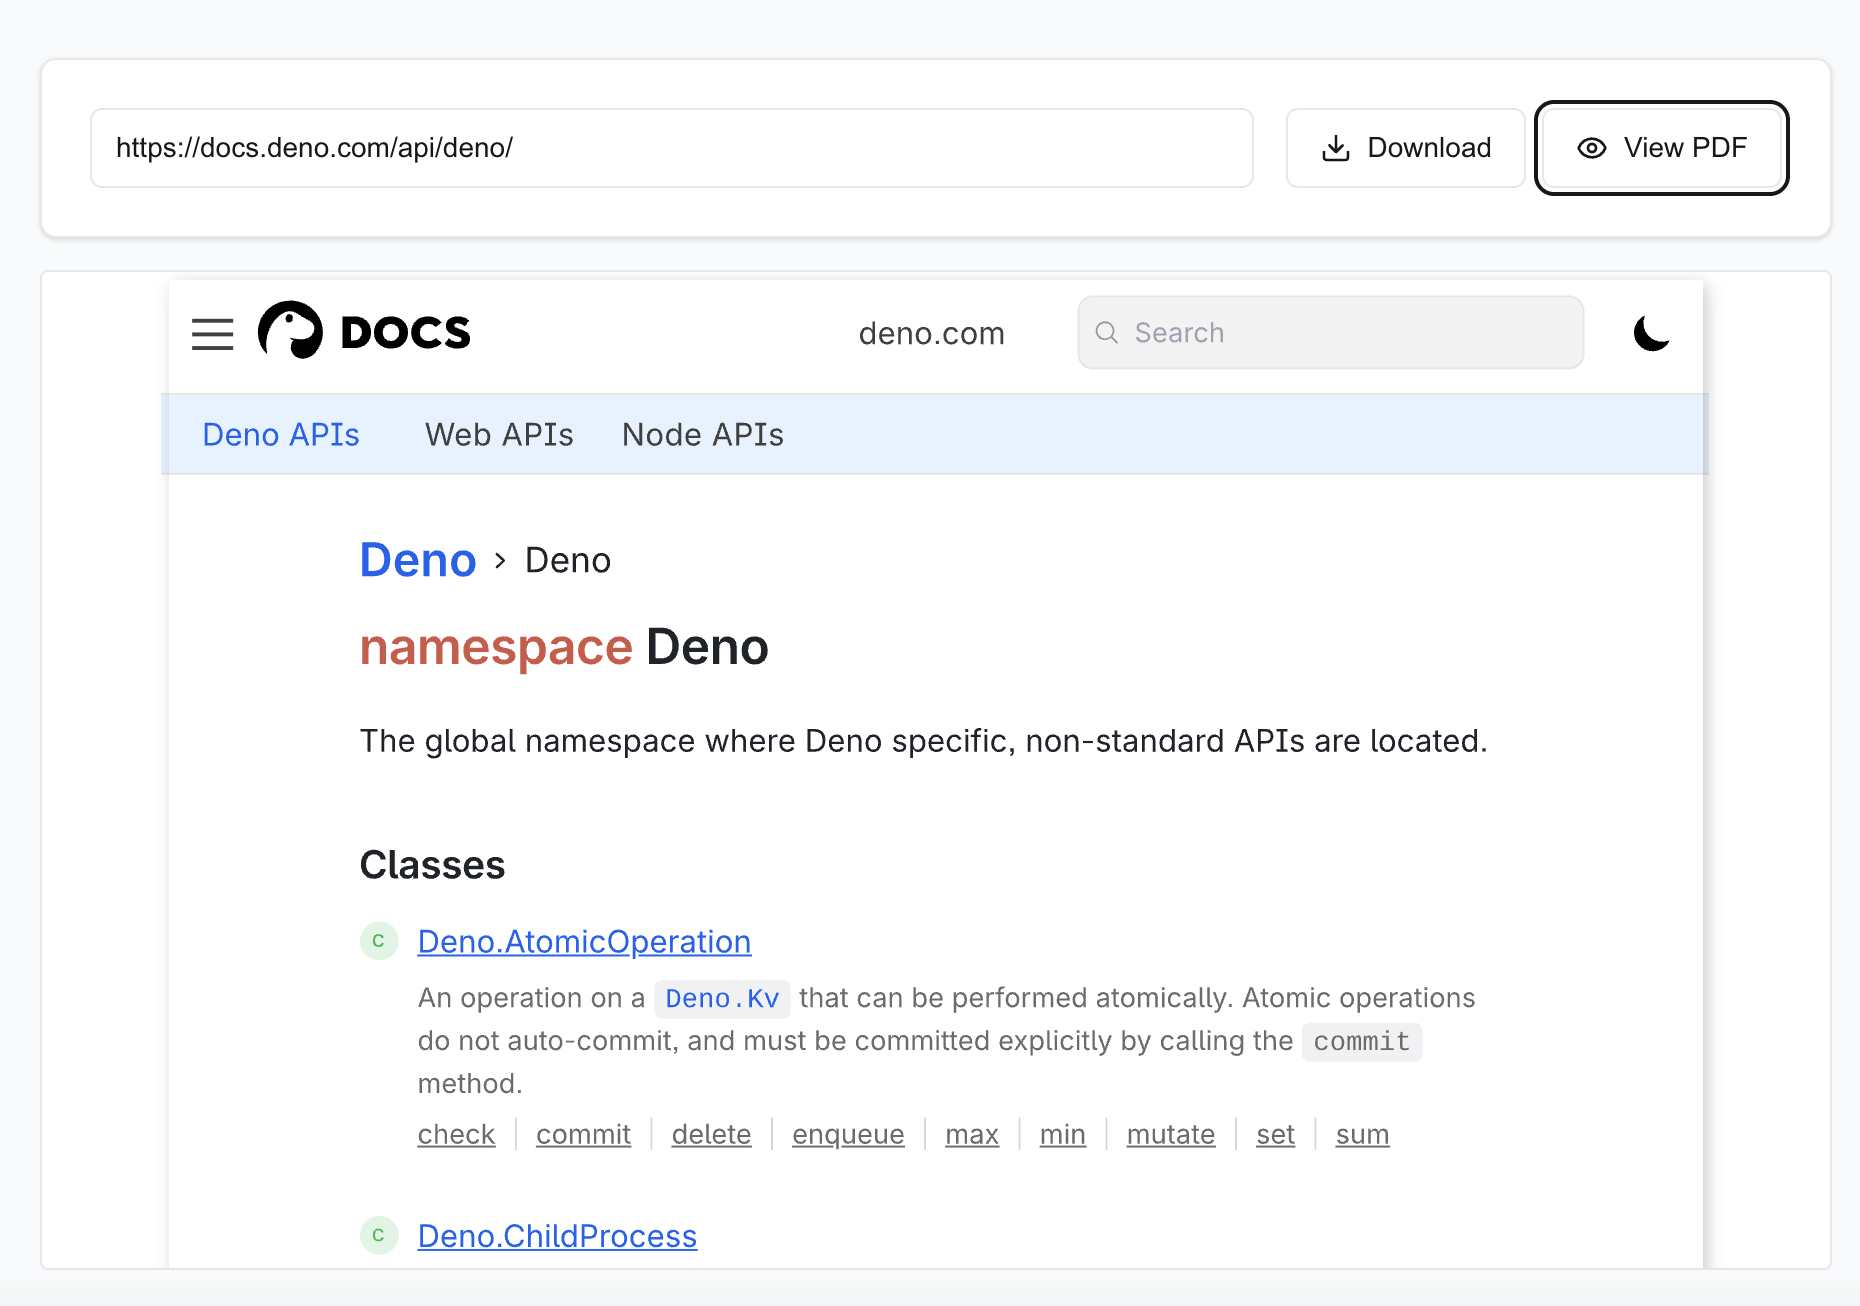
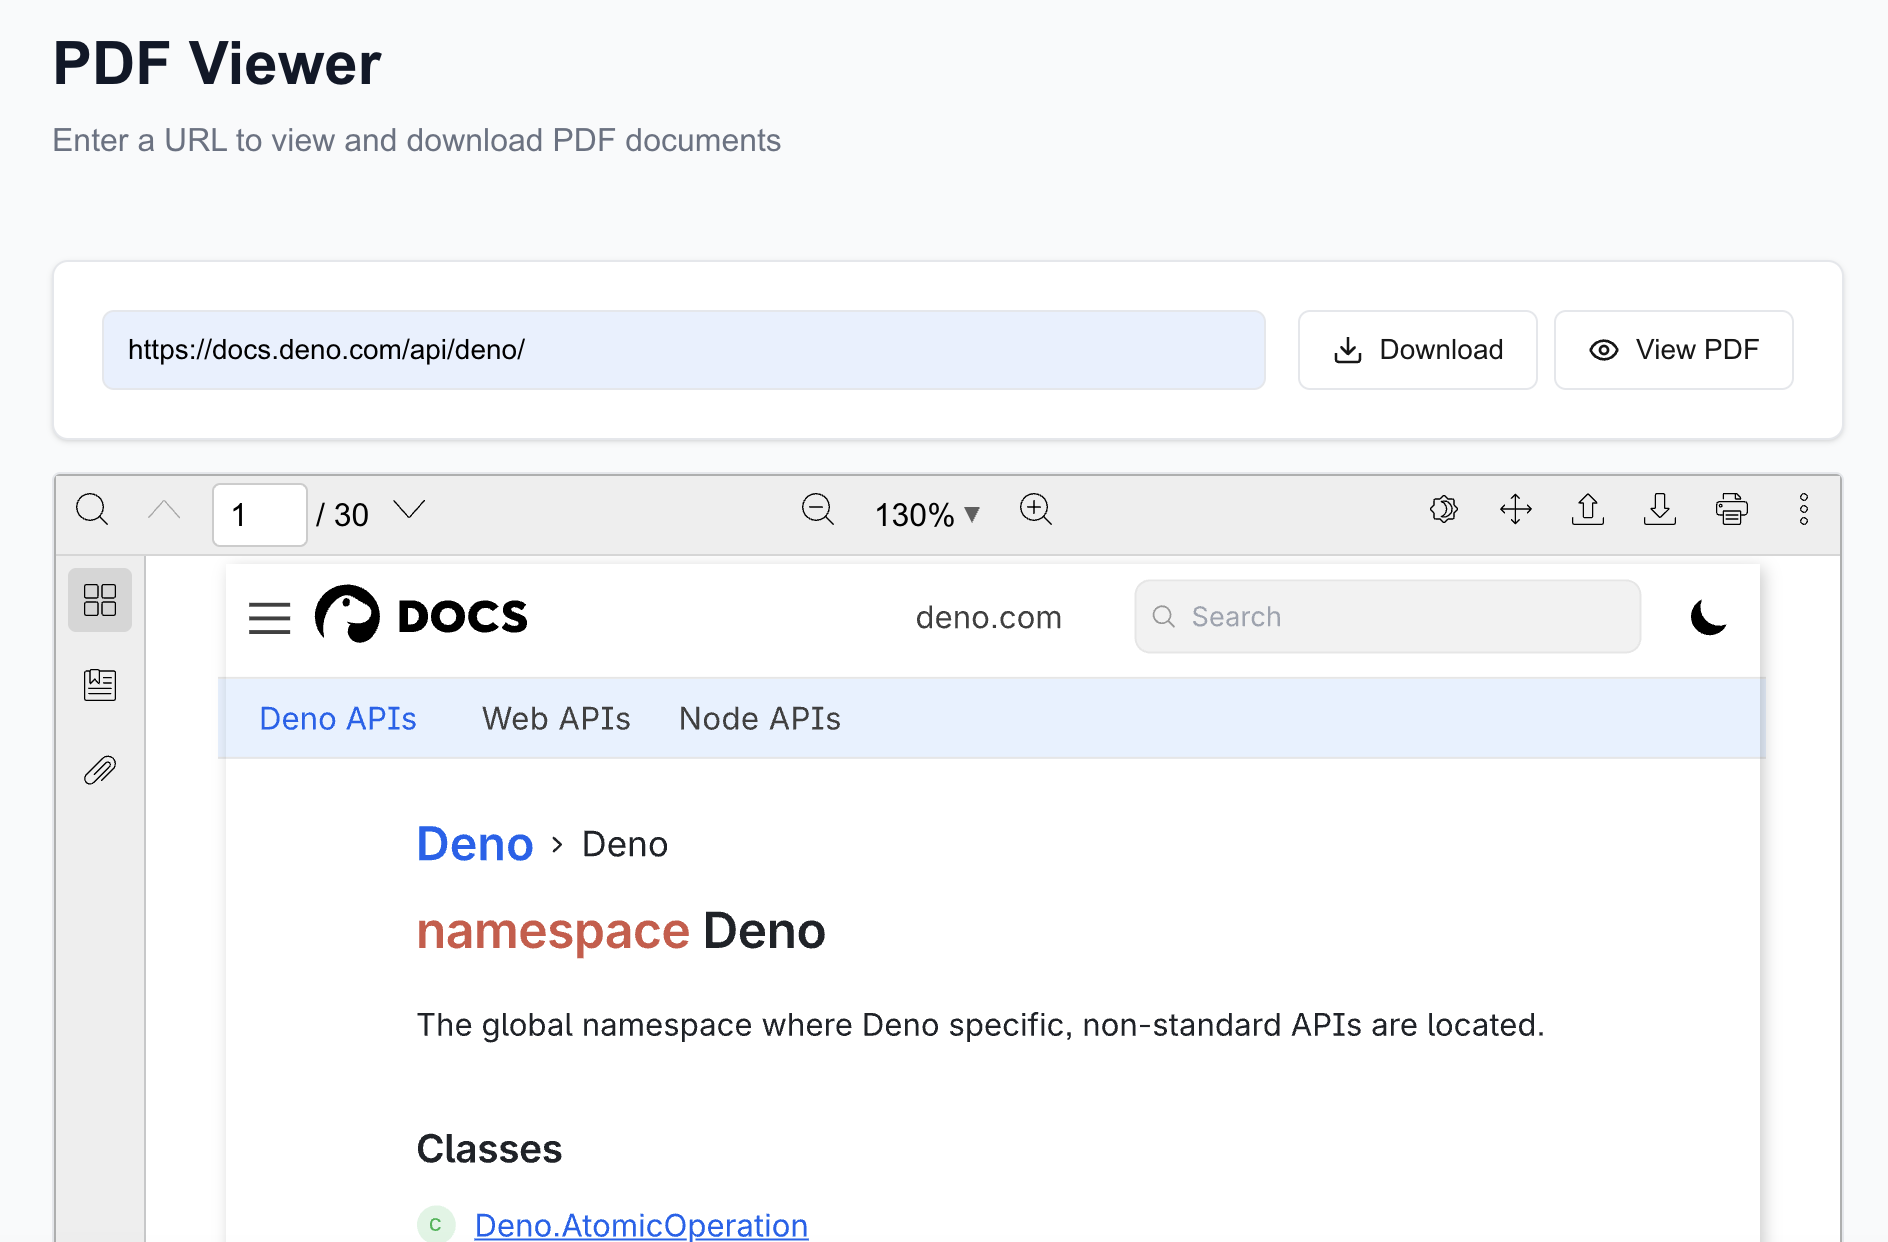
add default layout plugin

diff --git a/src/components/PdfViewer/PdfViewer.tsx b/src/components/PdfViewer/PdfViewer.tsx
@@ -1,5 +1,8 @@
 import { Viewer, ViewMode } from '@react-pdf-viewer/core';
+import { defaultLayoutPlugin } from '@react-pdf-viewer/default-layout';
 
+// Import styles
+import '@react-pdf-viewer/default-layout/lib/styles/index.css';
 // Import the styles
 import '@react-pdf-viewer/core/lib/styles/index.css';
 
@@ -14,11 +17,16 @@ export function PDFViewer({
   url,
   loading,
 }: PDFViewerProps) {
+  
+  const defaultLayoutPluginInstance = defaultLayoutPlugin({
+
+  });
   return (
     <div className={`${(loading) ? "hidden" : "block"}`}>
       <Viewer
         viewMode={ViewMode.SinglePage}
-        fileUrl={url} 
+        fileUrl={url}
+        plugins={[defaultLayoutPluginInstance]}
         onDocumentLoad={onLoad}
       />
     </div>
